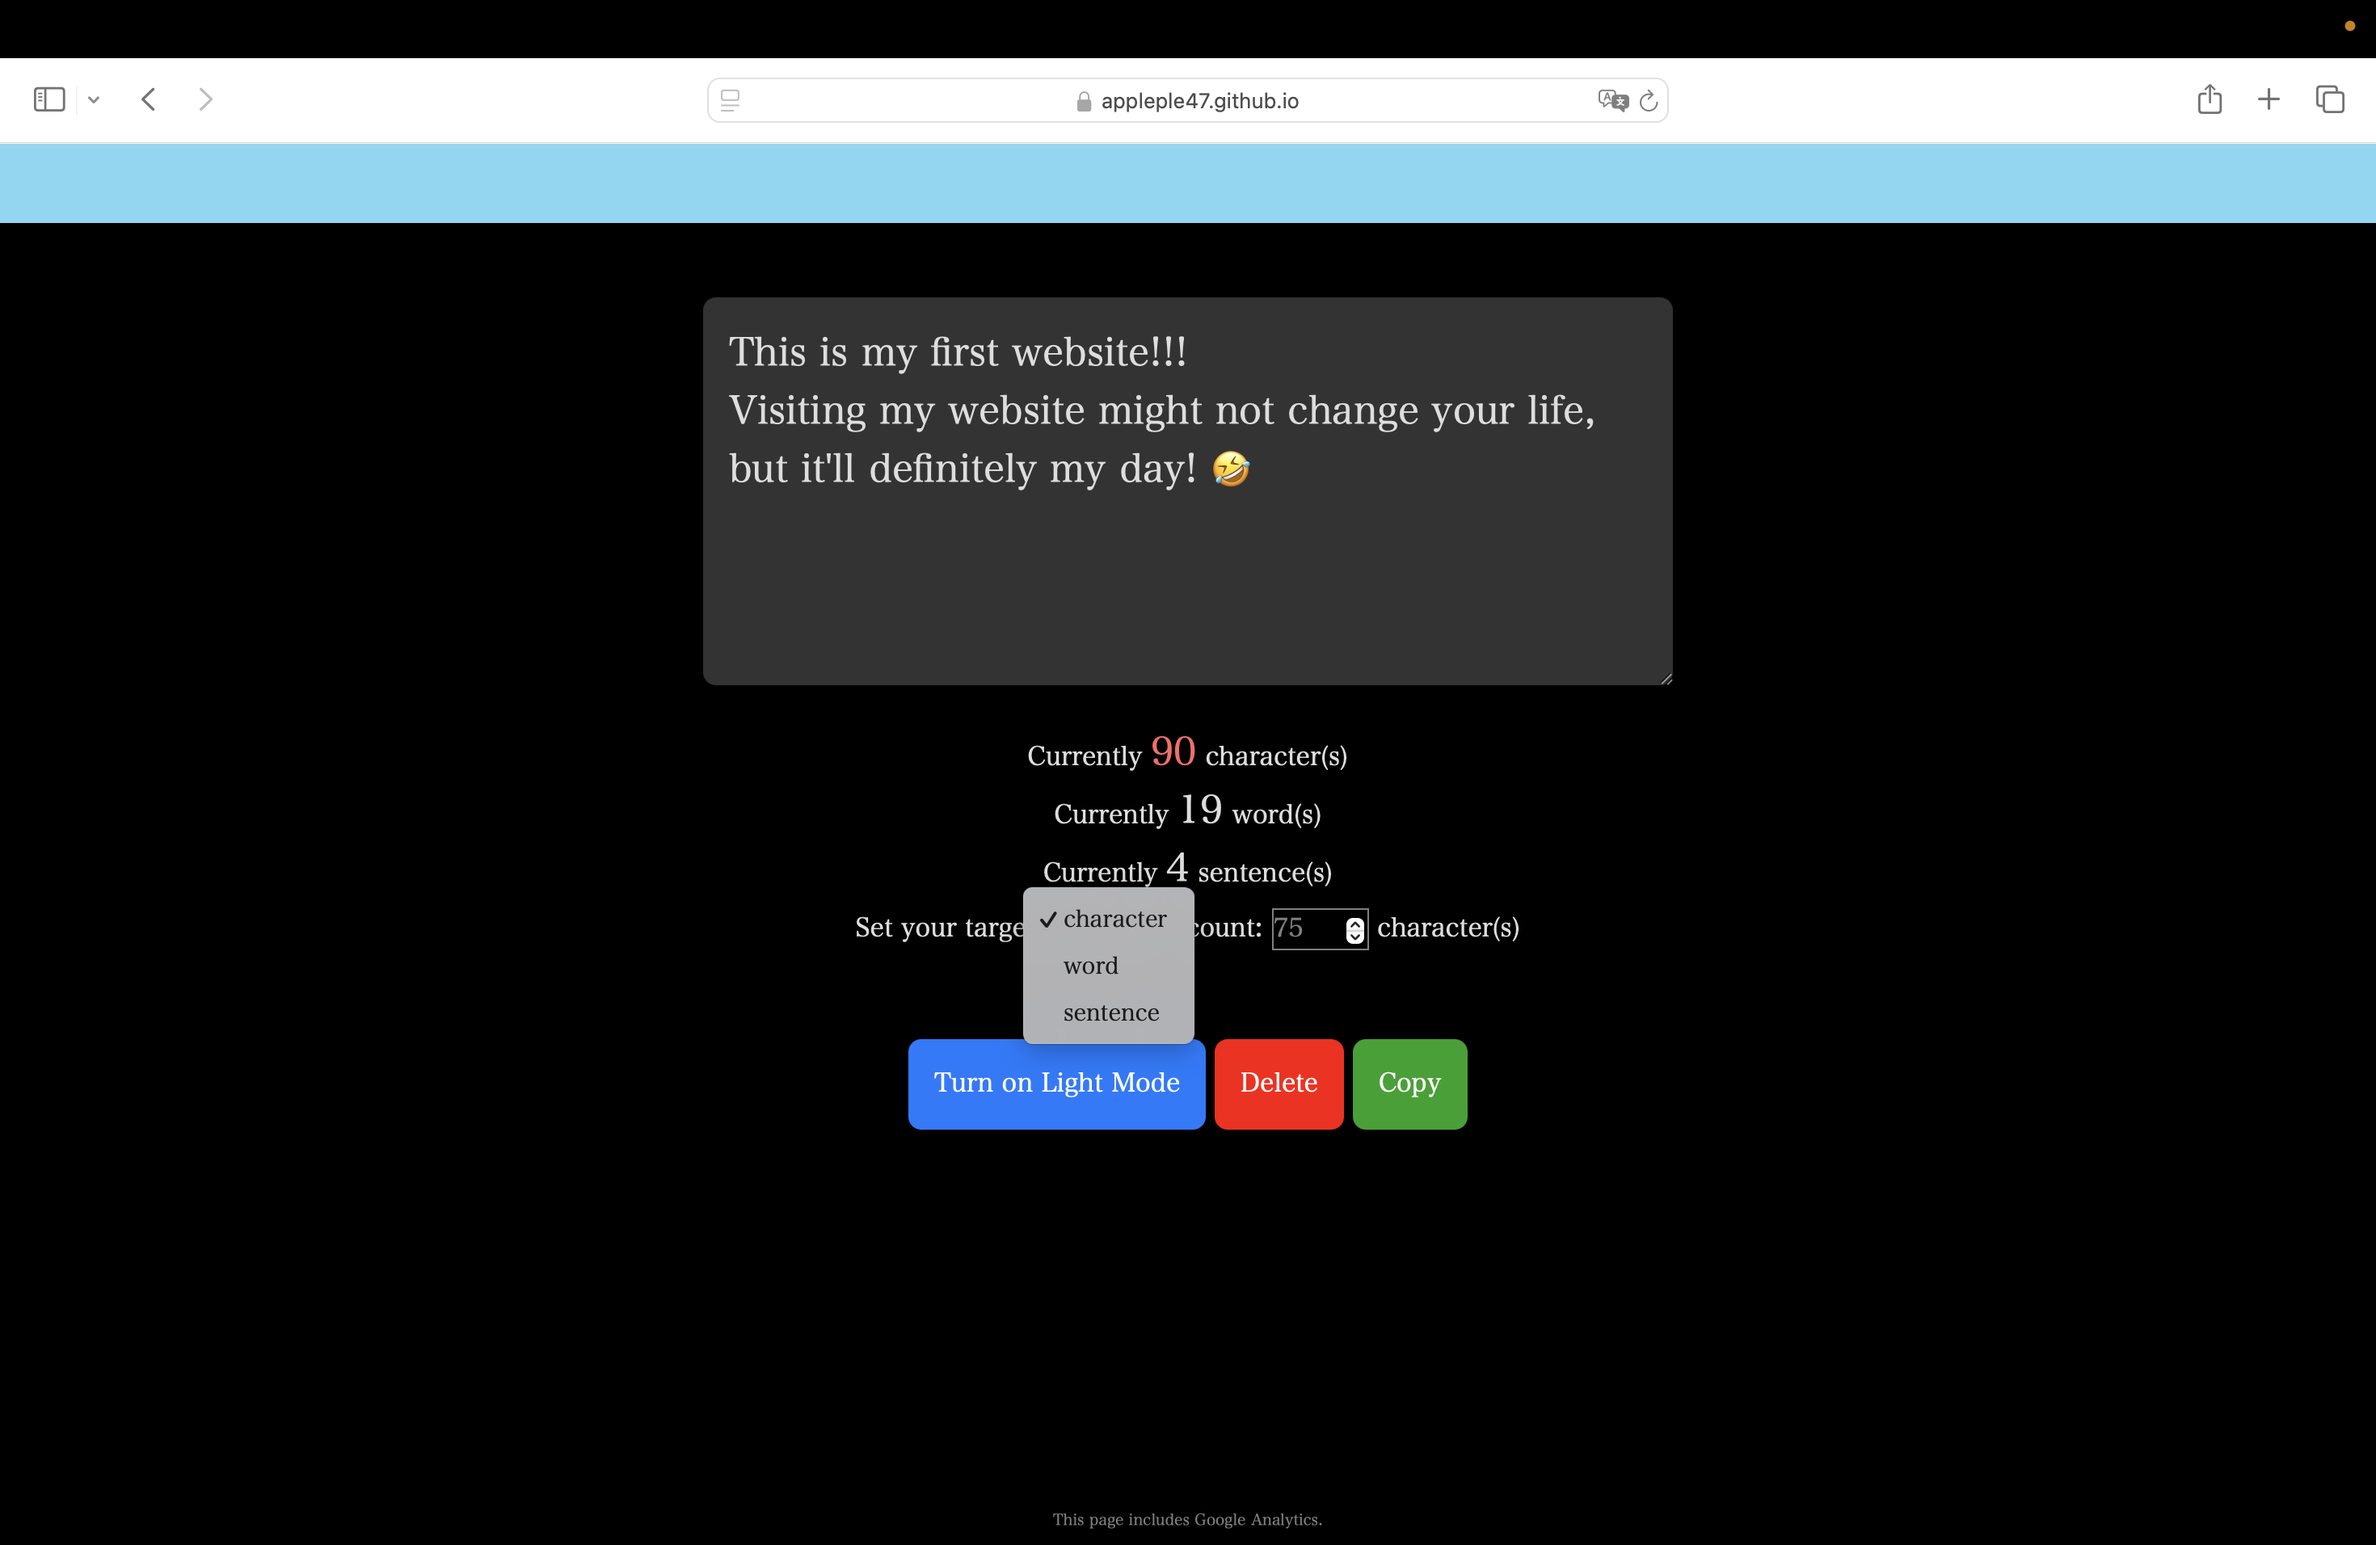
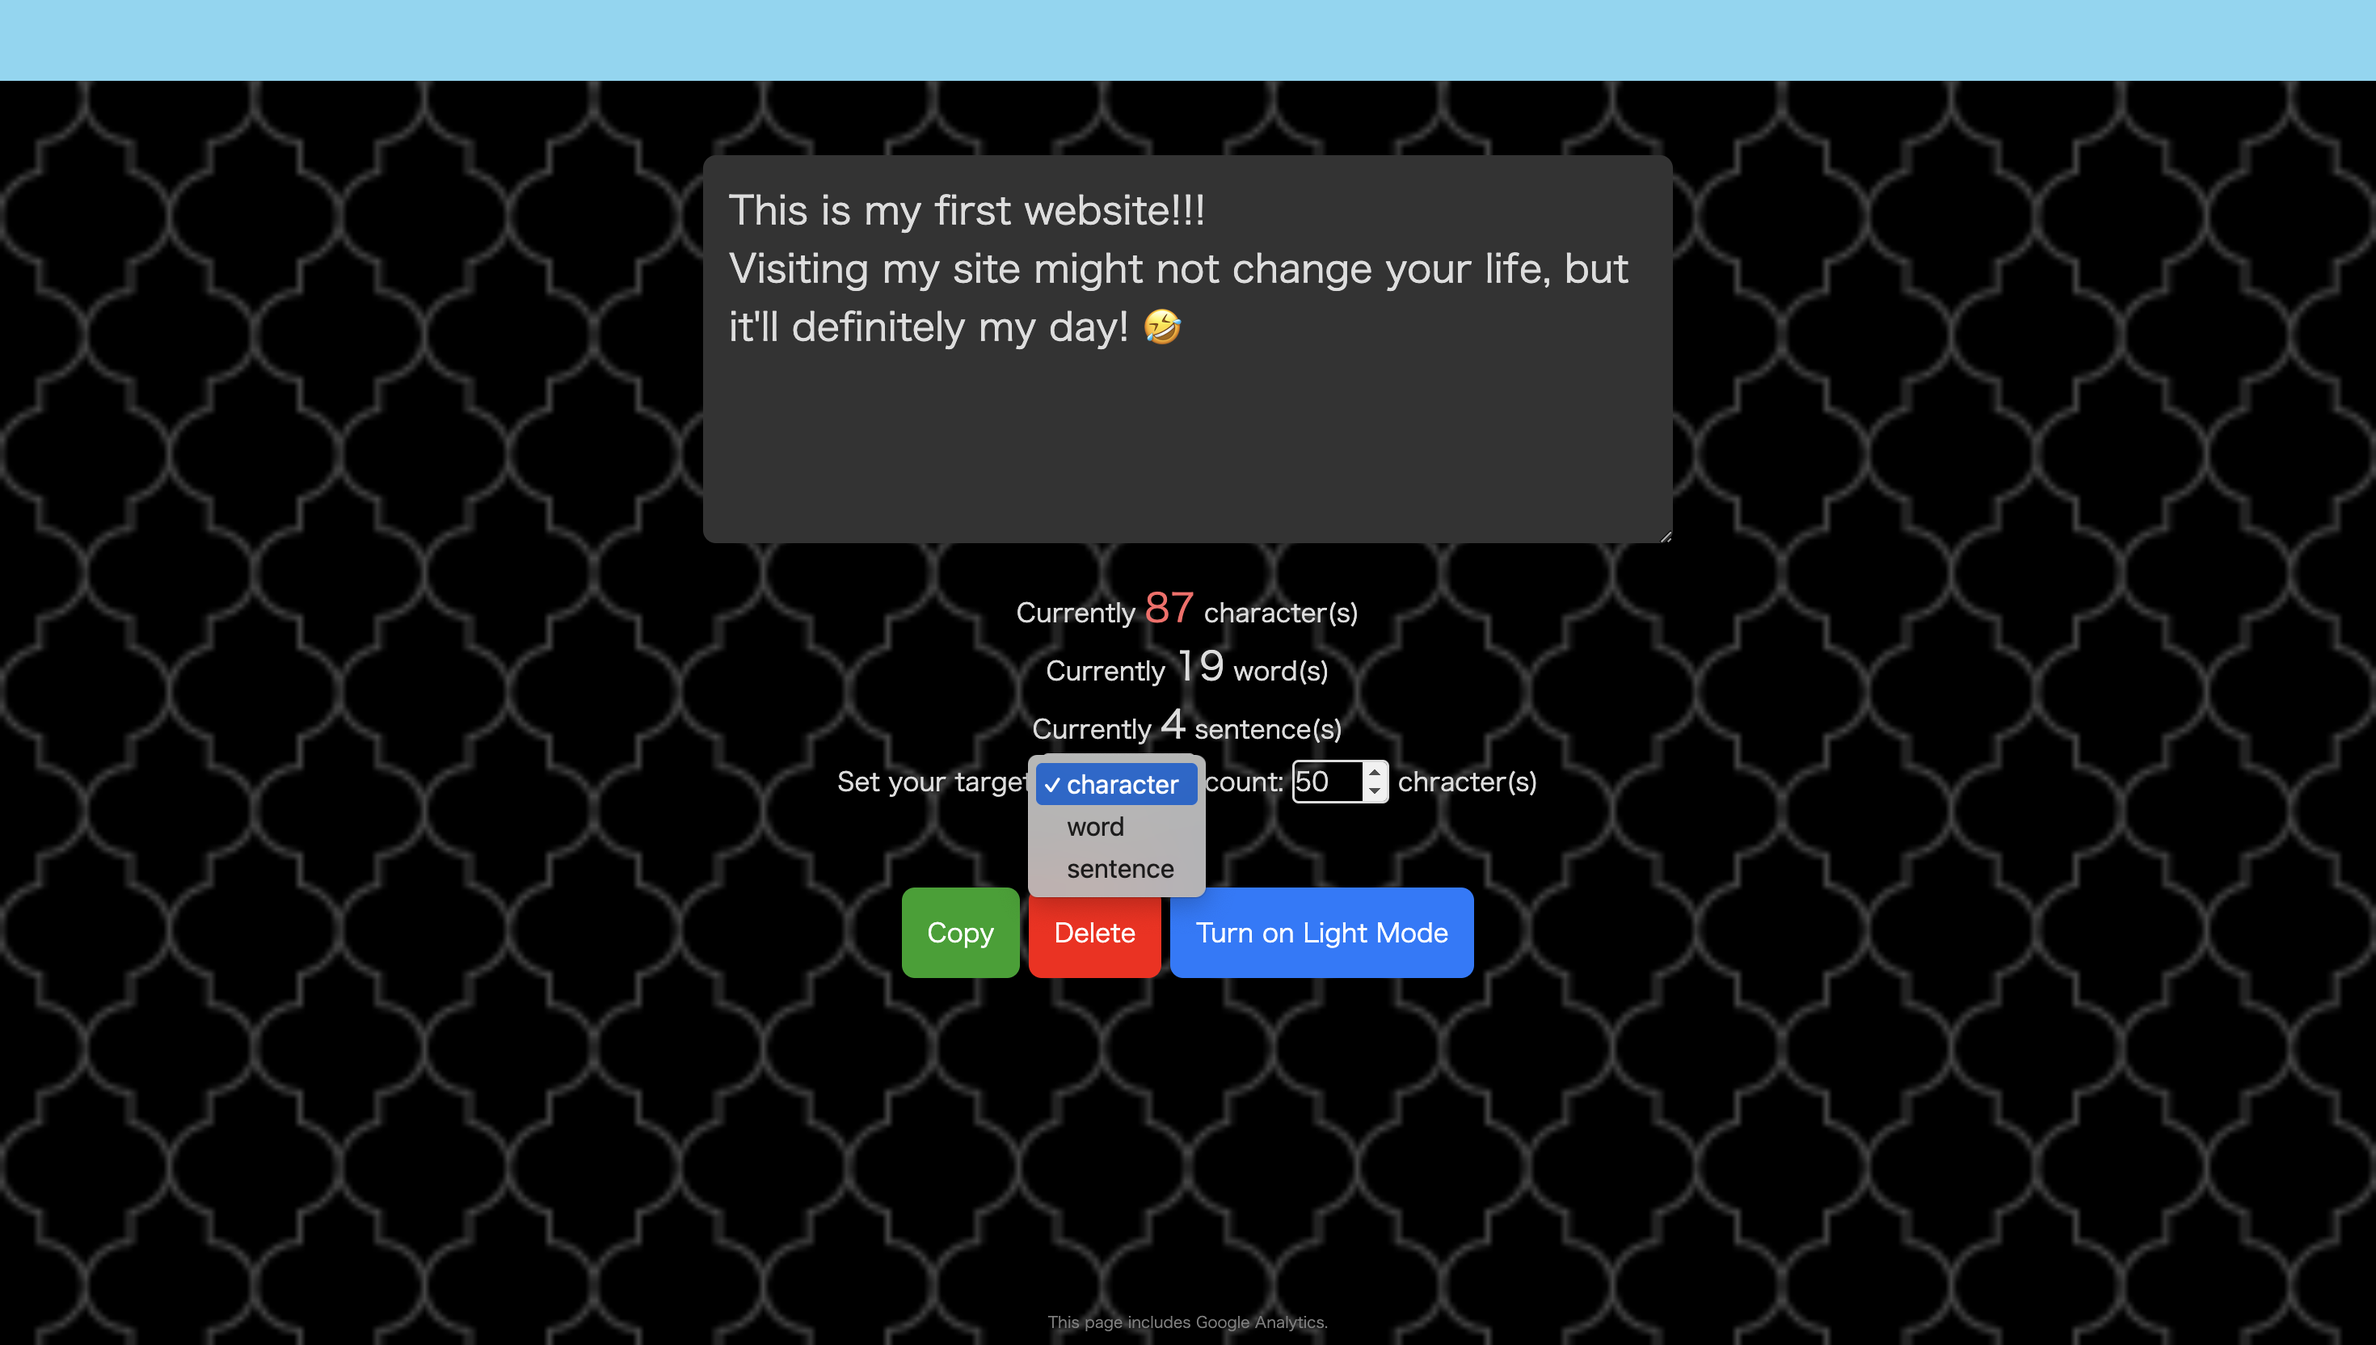
Add a wallpaper to the page

diff --git a/css/style.css b/css/style.css
@@ -2,15 +2,53 @@ body{
     text-align: center;
     padding: 3rem;
     transition: .5s;
+    background-image: url('../pictures/hotel-wallpaper.webp');
+    background-size: cover;
+    background-repeat: no-repeat;
+    background-position: center;
+    z-index: -1;
 }
 .dark-theme {
-    background: #000;
-    color : #ddd;
+    background-image: url('../pictures/hotel-wallpaper-black.webp');
+    background-size: cover;
+    background-repeat: no-repeat;
+    background-position: center;
+    z-index: -1;
+    color: #ddd;
 }
 .dark-theme #text {
     background: #333;
     color: #ddd;
 }
+.dark-theme #Type {
+    border: 4px;
+    border-radius: 4px;
+    color: #ddd;
+    border: 1.5px solid #ddd;
+}
+.dark-theme #Input {
+    border: 4px;
+    border-radius: 4px;
+    color: #ddd;
+    border: 1.5px solid #ddd;
+}
+input{
+    border: 4px;
+    border-radius: 4px;
+    border: solid 1.5px #000;
+    color: #000;
+    outline: 0;
+    width: 60px;
+}
+select {
+    padding: 0.5rem;
+    border: 4px;
+    border-radius: 4px;
+    border: solid 1.5px #000;
+    color: #000;
+    cursor: pointer;
+}
+
 #text {
     border: 4px;
     border-radius: 8px;
@@ -26,20 +64,6 @@ body{
 textarea::placeholder {
     color: rgb(103, 103, 103); 
     opacity: 1;
-}
-input{
-    border: solid 1px #7f7f7f;
-    color: #7f7f7f;
-    outline: 0;
-    width: 60px;
-}
-select {
-    font-size: 0.9rem;
-    padding: 0.5rem;
-    border-radius: 4px;
-    border: solid 1px #7f7f7f;
-    color: #7f7f7f;
-    cursor: pointer;
 }
 #anounce {
     position: fixed;

diff --git a/js/script.js b/js/script.js
@@ -62,6 +62,7 @@ togglebtn.addEventListener("click", () => {
         togglebtn.textContent = "Turn on Light Mode";
     }
 });
+
 deletebtn.addEventListener("click", () => {
     var result = window.confirm("The entered text will be deleted. This action cannot be undone.");
     if (result) {

diff --git a/README.md b/README.md
@@ -8,6 +8,7 @@ This repository is for my first website.\
 I will make an effort to use English in this repository\
 Even if there is any strange English, please don't mind.\
 If you have any ideas to improve this website, please let me know!\
+The wallpapers are provided by [Subtle Patterns](https://www.toptal.com/designers/subtlepatterns/).\
 By the way, "RunningMan.png" was generated by [ChatGPT](https://chatgpt.com/g/g-8sPlJ64Gn-tiyatutogpt).
 
 ## How to use 
@@ -19,15 +20,16 @@ You can switch light/dark mode by pressing the toggle button.
 
 ## Future Plans
 ・Add a word and sentence count feature (completed on 24 Jan 2025)\
-・Allow switching target count type(competed on 25 Jan 2025)\
+・Allow switching target count type (competed on 25 Jan 2025)\
+・Add a wallpaper to the page (completed on 27 Jan 2025)\
 ・Activate word and sentence counters\
 ・Add a sharing button\
 ・Add ads, lol\
 ・Get some feedback\
   etc.
 
-## Reference
-Mana, 2023, "[1冊ですべて身につくJavaScript入門講座](https://www.sbcr.jp/product/4815615758/)", SB Creative
-
+## Reference and Citation
+[1] Mana, 2023, "[1冊ですべて身につくJavaScript入門講座](https://www.sbcr.jp/product/4815615758/)", SB Creative\
+[2] https://www.toptal.com/designers/subtlepatterns/
 ![Sample Image](./pictures/ScreenShot1.png)
 ![Sample Image](./pictures/ScreenShot2.png)
